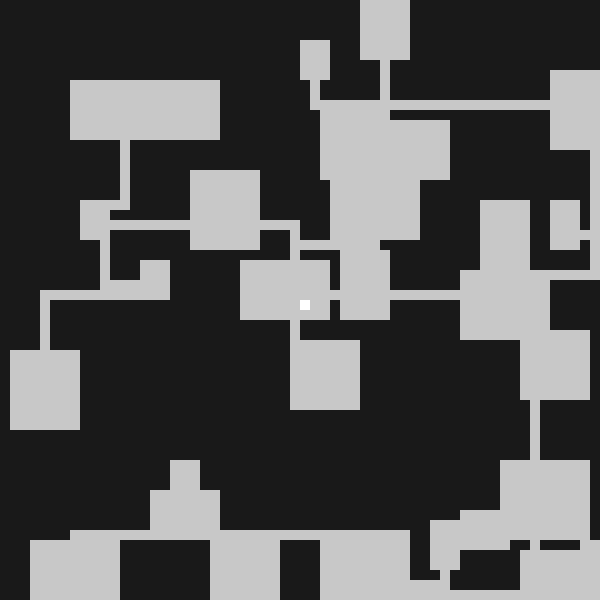
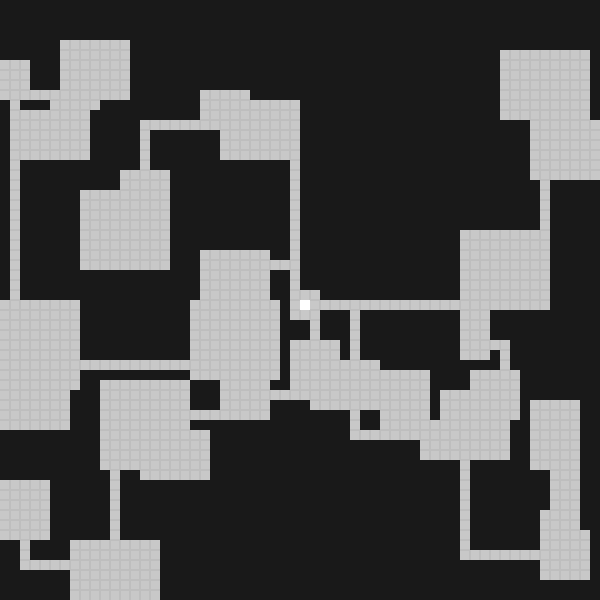
Add grid lines
- Add grid lines to the GridMap output. These use a subtle colour
  difference from the rooms to mark the edges.
- Add a new example image showing the grid lines.

diff --git a/src/rpgtools/map/gridmap.rs b/src/rpgtools/map/gridmap.rs
@@ -389,6 +389,8 @@ impl GridMap {
 
     /// Make a PNG file of the gridmap
     pub fn draw_to_file(&self, filename: &str, scale: usize) -> Result<(), std::io::Error> {
+        const GRID_SEP_COLOUR: u8 = 190;
+
         let output = File::create(filename)?;
         let encoder = PNGEncoder::new(output);
 
@@ -421,6 +423,69 @@ impl GridMap {
                     let base = x*scale + (y*scale+i)*row_length;
                     for j in base..(base+scale) {
                         pixels[j] = color;
+                    }
+                }
+
+                // Now check whether ne need to draw the borders of the cell
+                if x < self.xmax-1 {
+                    if self.cells[x][y].area == AreaType::Room && self.cells[x+1][y].area == AreaType::Room {
+                        // Base calculation: the pixels are packed into a linear
+                        // array where a whole horizontal row is adjacent. So the
+                        // index in general is:  idx = y * row_length + x
+                        //
+                        // In this case, we are drawing a vertical line so we
+                        // have to keep calculating this index rather than just
+                        // using a range. Here, we're finding the base by taking
+                        // the first horizontal pixel of the _next_ horizontal
+                        // cell (x+1)*scale and subtracting by 1, which is the
+                        // last pixel of our own cell. All of this needs to be
+                        // offset by our y index row length to get the pixel
+                        // for our cell in the y offset. When drowing, this
+                        // is the pixel in the top right-hand corner of the cell.
+                        let base = (x+1)*scale-1 + y*scale*row_length;
+                        // Draw the vertical line. Need to visit each pixel on
+                        // the rightmost side.
+                        for row in 0 .. scale {
+                            // Since we know our base, we can just offset by the
+                            // row_length each time to find the pixel directly
+                            // below the last.
+                            let index = base + row*row_length;
+                            pixels[index] = GRID_SEP_COLOUR;
+                        }
+                    }
+                }
+                if x > 0 {
+                    if self.cells[x][y].area == AreaType::Room && self.cells[x-1][y].area == AreaType::Room {
+                        // Explanation is the same as above but now it's the first
+                        // pixel in our box
+                        let base = x*scale + y*scale*row_length;
+                        for row in 0 .. scale {
+                            // Since we know our base, we can just offset by the
+                            // row_length each time to find the pixel directly
+                            // below the last.
+                            let index = base + row*row_length;
+                            pixels[index] = GRID_SEP_COLOUR;
+                        }
+                    }
+                }
+                if y < self.ymax-1 {
+                    if self.cells[x][y].area == AreaType::Room && self.cells[x][y+1].area == AreaType::Room {
+                        // Explanation is the same as above but now it's a horizontal
+                        // line so we can just use the range syntax.
+                        let base = x*scale + y*scale*row_length + (scale-1)*row_length;
+                        for index in base .. base+scale {
+                            pixels[index] = GRID_SEP_COLOUR;
+                        }
+                    }
+                }
+                if y > 0 {
+                    if self.cells[x][y].area == AreaType::Room && self.cells[x][y-1].area == AreaType::Room {
+                        // Explanation is the same as above but now it's a horizontal
+                        // line so we can just use the range syntax.
+                        let base = x*scale + y*scale*row_length;
+                        for index in base .. base+scale {
+                            pixels[index] = GRID_SEP_COLOUR;
+                        }
                     }
                 }
             }
